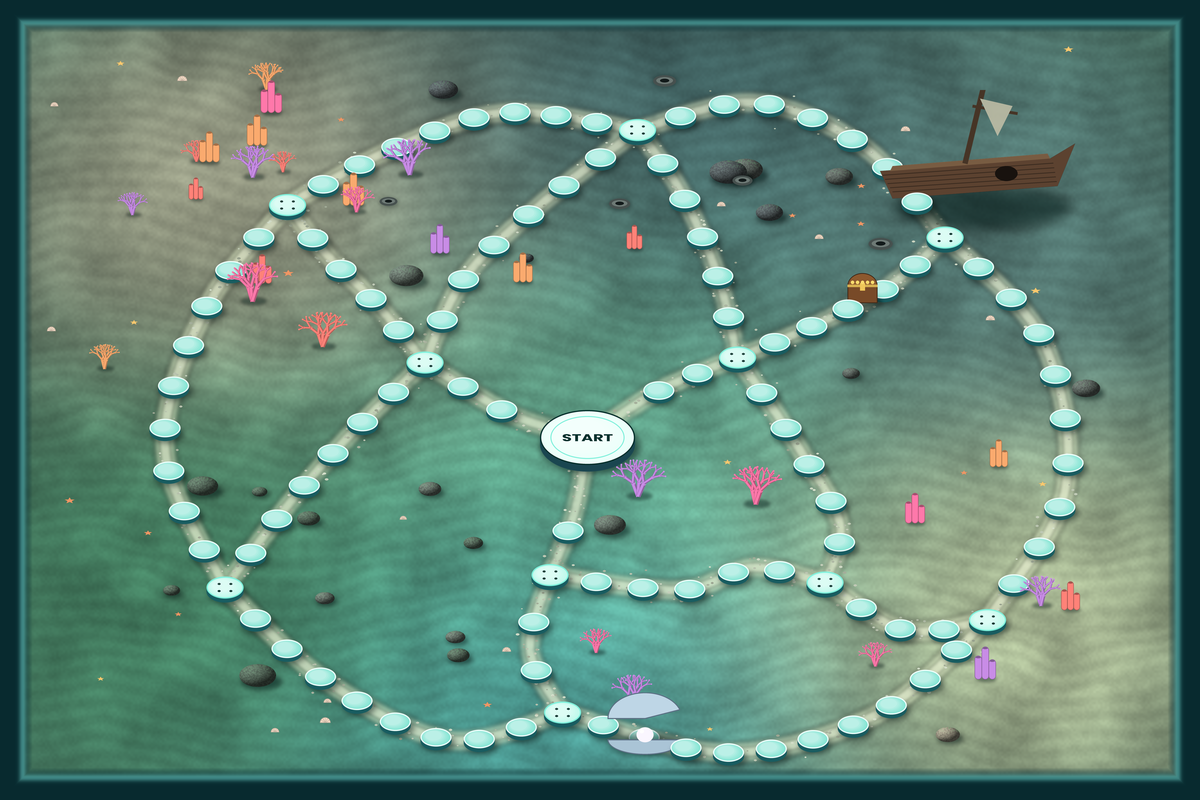
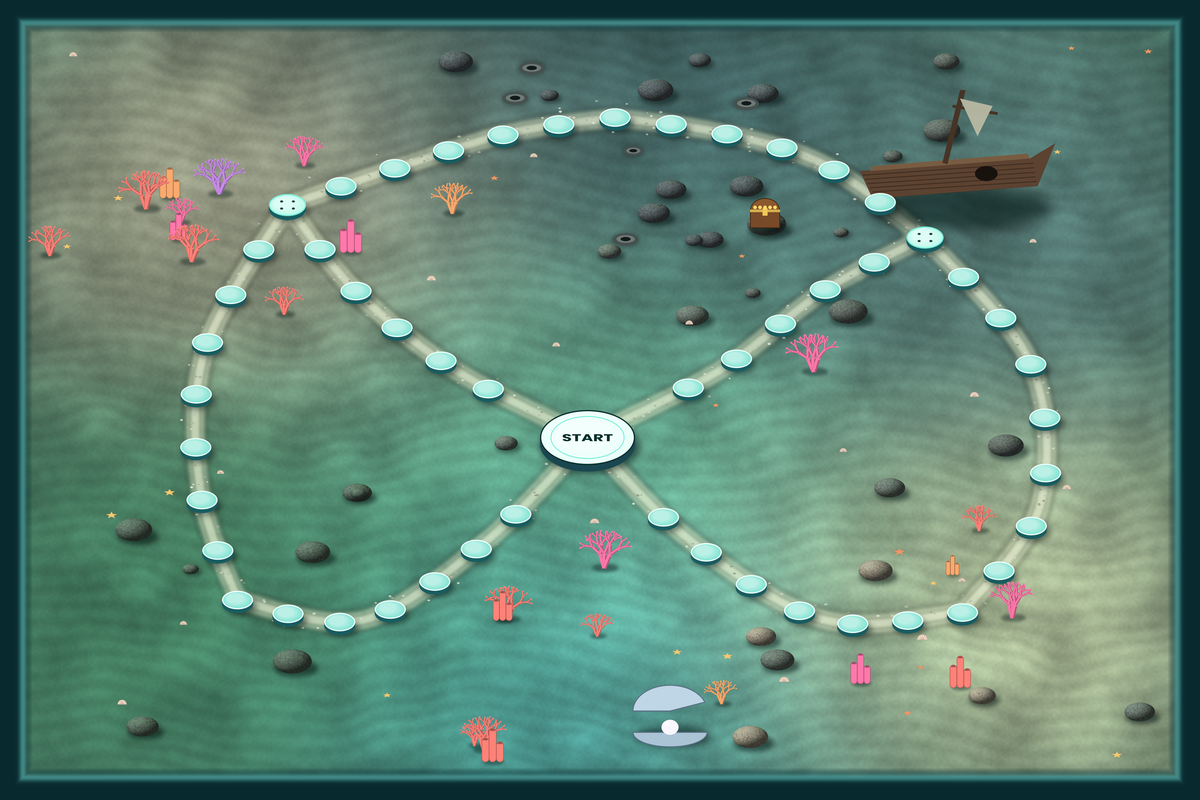
Tutorial world: simpler paths (two loops + bridge, 52 spaces)
Claude-Session: https://claude.ai/code/session_01Dcu72AeLarfVHY9QYow17T

diff --git a/tools/render_world.py b/tools/render_world.py
@@ -5,7 +5,7 @@
        ../textures/worlds/tutorial_world.json (칸 위치·연결, 시작 칸, 움직이는 장식 위치)
        out/tutorial_map_small.png             (상자 그림용 작은 지도)
 
-골인 지점은 없고, 길이 여러 갈래로 갈라졌다 다시 만나며 세상 전체를 이어요.
+골인 지점은 없고, 튜토리얼용이라 단순하게: START 양쪽의 고리 두 개 + 위쪽 다리.
 지역: 가운데 START 광장 / 산호 정원 / 다시마 숲 / 난파선 / 조개 해변 / 거품 분수 / 진주 석호
 """
 import json
@@ -21,7 +21,7 @@ OUT = os.path.join(ROOT, "textures", "worlds")
 FONT = os.path.join(ROOT, "fonts", "Poppins-Bold.ttf")
 W, H = 4800, 3200
 RIM = 90            # 판 가장자리 (멀리서 보면 보드게임 판처럼 보이게)
-SPACING = 175       # 칸 사이 거리
+SPACING = 215       # 칸 사이 거리
 rng = np.random.default_rng(11)
 
 PEARL = (234, 255, 250)
@@ -31,38 +31,25 @@ DEEP = (5, 48, 44)
 REGIONS = {
     "start":   {"pos": (2350, 1750), "tint": (96, 168, 140)},
     "coral":   {"pos": (1150, 820), "tint": (156, 150, 128)},
-    "kelp":    {"pos": (900, 2350), "tint": (66, 126, 94)},
-    "wreck":   {"pos": (3780, 950), "tint": (84, 118, 116)},
-    "beach":   {"pos": (3950, 2480), "tint": (180, 188, 150)},
-    "vents":   {"pos": (2550, 520), "tint": (62, 96, 100)},
-    "lagoon":  {"pos": (2250, 2850), "tint": (80, 170, 168)},
+    "kelp":    {"pos": (950, 2400), "tint": (66, 126, 94)},
+    "wreck":   {"pos": (3700, 950), "tint": (84, 118, 116)},
+    "beach":   {"pos": (3850, 2450), "tint": (180, 188, 150)},
+    "vents":   {"pos": (2460, 470), "tint": (62, 96, 100)},
+    "lagoon":  {"pos": (2350, 2820), "tint": (80, 170, 168)},
 }
 R = {k: v["pos"] for k, v in REGIONS.items()}
 S = R["start"]
-J = {
-    "S": S, "C": R["coral"], "K": R["kelp"], "W": R["wreck"], "B": R["beach"], "V": R["vents"], "L": R["lagoon"],
-    "J1": (1700, 1450), "J2": (2950, 1430), "J3": (2200, 2300), "J4": (3300, 2330),
-}
-# 갈림길(J)끼리 잇는 길. 가운데 숫자들은 길이 구불구불 지나가는 점
+J = {"S": S, "C": R["coral"], "K": R["kelp"], "W": R["wreck"], "B": R["beach"], "V": R["vents"]}
+# 튜토리얼이라 단순하게: START 를 가운데 둔 왼쪽·오른쪽 고리 두 개 + 위쪽 다리 하나 (골인 없음)
 EDGES = [
-    ("S", "J1", [(2050, 1660)]),
-    ("S", "J2", [(2640, 1560)]),
-    ("S", "J3", [(2300, 2040)]),
-    ("J1", "C", [(1500, 1210), (1300, 1010)]),
-    ("J1", "K", [(1420, 1720), (1160, 2010)]),
-    ("J1", "V", [(1860, 1110), (2160, 820)]),
-    ("J2", "V", [(2870, 1100), (2720, 760)]),
-    ("J2", "W", [(3260, 1300), (3560, 1140)]),
-    ("C", "V", [(1560, 600), (2020, 450)]),
-    ("V", "W", [(3020, 410), (3460, 590)]),
-    ("C", "K", [(820, 1240), (660, 1800)]),
-    ("W", "B", [(4170, 1360), (4260, 1960)]),
-    ("J3", "L", [(2120, 2600)]),
-    ("J3", "J4", [(2720, 2360), (3010, 2270)]),
-    ("J4", "B", [(3620, 2520)]),
-    ("J2", "J4", [(3200, 1800), (3360, 2100)]),
-    ("K", "L", [(1300, 2720), (1800, 2960)]),
-    ("L", "B", [(2900, 3010), (3500, 2860)]),
+    ("S", "C", [(1820, 1480), (1420, 1160)]),
+    ("C", "K", [(820, 1400), (800, 1950)]),
+    ("K", "S", [(1450, 2480), (1950, 2160)]),
+    ("S", "W", [(2880, 1480), (3300, 1160)]),
+    ("W", "B", [(4120, 1450), (4160, 2020)]),
+    ("B", "S", [(3300, 2480), (2760, 2160)]),
+    ("C", "V", [(1620, 660), (2050, 530)]),
+    ("V", "W", [(2880, 530), (3300, 660)]),
 ]
 ROUTES = [[J[a]] + mid + [J[b]] for a, b, mid in EDGES]
 
@@ -472,7 +459,7 @@ def main():
                 add(y, lambda x=x, y=y: vent(img, x, y, rng.uniform(22, 34)))
                 break
     add(R["wreck"][1] - 160, lambda: wreck(img, R["wreck"][0] + 120, R["wreck"][1] - 160))
-    add(R["wreck"][1] + 260, lambda: chest(img, R["wreck"][0] - 330, R["wreck"][1] + 250))
+    add(900, lambda: chest(img, 3060, 900))
     add(R["lagoon"][1] + 120, lambda: clam(img, R["lagoon"][0] + 330, R["lagoon"][1] + 110))
 
     # 칸은 장식과 같은 줄 세우기에 끼워 넣어 앞뒤가 자연스럽게
